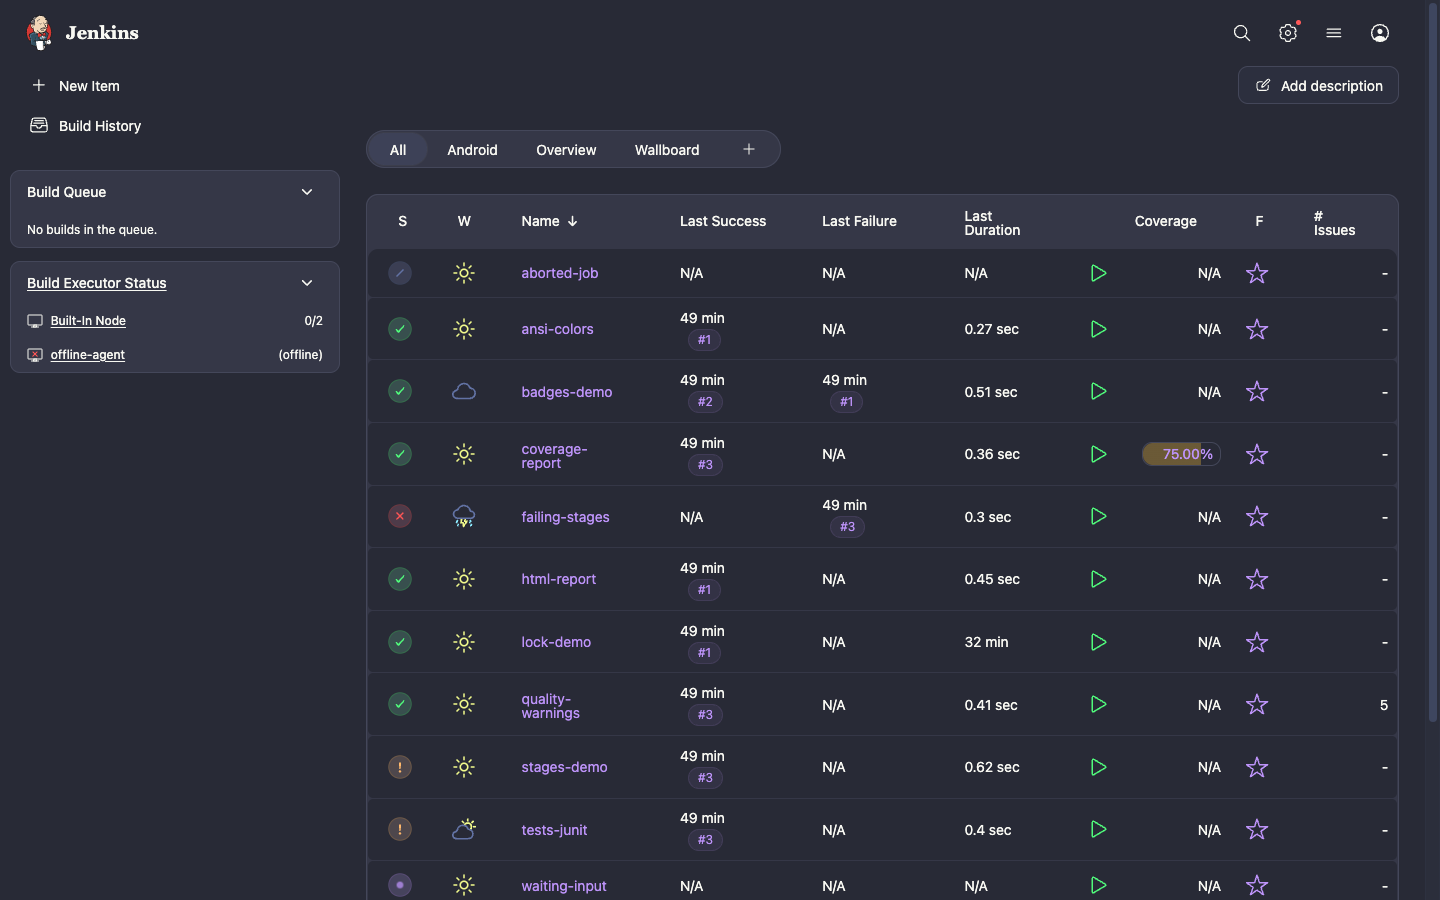
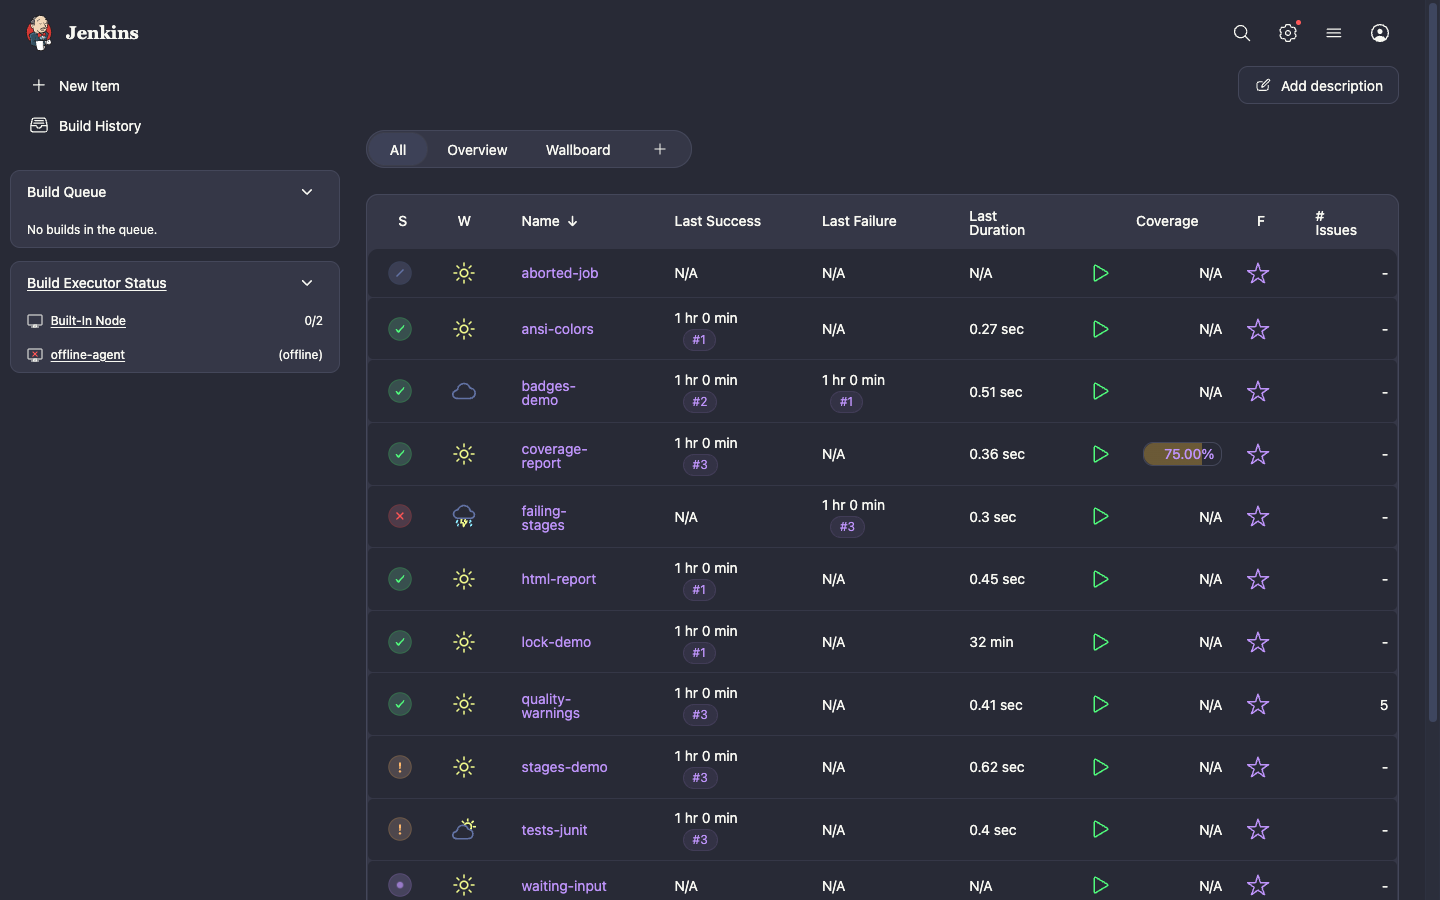
docs(readme): add known limitations, retake dashboard shot
The dashboard screenshot now shows only synthetic view names. The README
lists what the theme cannot reach and the Jenkins versions it was checked on.

diff --git a/README.md b/README.md
@@ -53,6 +53,7 @@ A dark theme for Jenkins, built on the official [Dracula](https://draculatheme.c
 ## Installation
 
 The plugin needs Jenkins 2.528.3 or newer. The [Theme Manager](https://plugins.jenkins.io/theme-manager/) plugin is installed with it as a dependency.
+The theme was checked page by page on Jenkins 2.568.3 and 2.580.1 in Chrome.
 
 **From the Update Center** (after the plugin is published):
 
@@ -83,12 +84,18 @@ appearance:
     theme: "dracula"
 ```
 
+## Known limitations
+
+- **Blue Ocean** is not styled. Theme Manager does not add theme stylesheets to Blue Ocean pages, so this is the same for every Jenkins theme.
+- **Charts that the server renders as PNG images** keep their white background. This includes the Build Time Trend and Load Statistics graphs in Jenkins core and the test trend portlet of Dashboard View.
+- **HTML Publisher reports** open in the plugin's own report frame, which does not load Jenkins styles.
+
 ## Palette
 
 | Color        | Hex       | Swatch                                                                         | Used for                                  |
 | ------------ | --------- | ------------------------------------------------------------------------------ | ----------------------------------------- |
 | Background   | `#282a36` | ![#282a36](https://img.shields.io/badge/%20-282a36?style=flat-square)          | Page background                           |
-| Current Line | `#44475a` | ![#44475a](https://img.shields.io/badge/%20-44475a?style=flat-square)          | Selection, borders                        |
+| Selection    | `#44475a` | ![#44475a](https://img.shields.io/badge/%20-44475a?style=flat-square)          | Selection, borders                        |
 | Foreground   | `#f8f8f2` | ![#f8f8f2](https://img.shields.io/badge/%20-f8f8f2?style=flat-square)          | Text                                      |
 | Comment      | `#6272a4` | ![#6272a4](https://img.shields.io/badge/%20-6272a4?style=flat-square)          | Secondary text, comments in code          |
 | Cyan         | `#8be9fd` | ![#8be9fd](https://img.shields.io/badge/%20-8be9fd?style=flat-square)          | Information                               |
